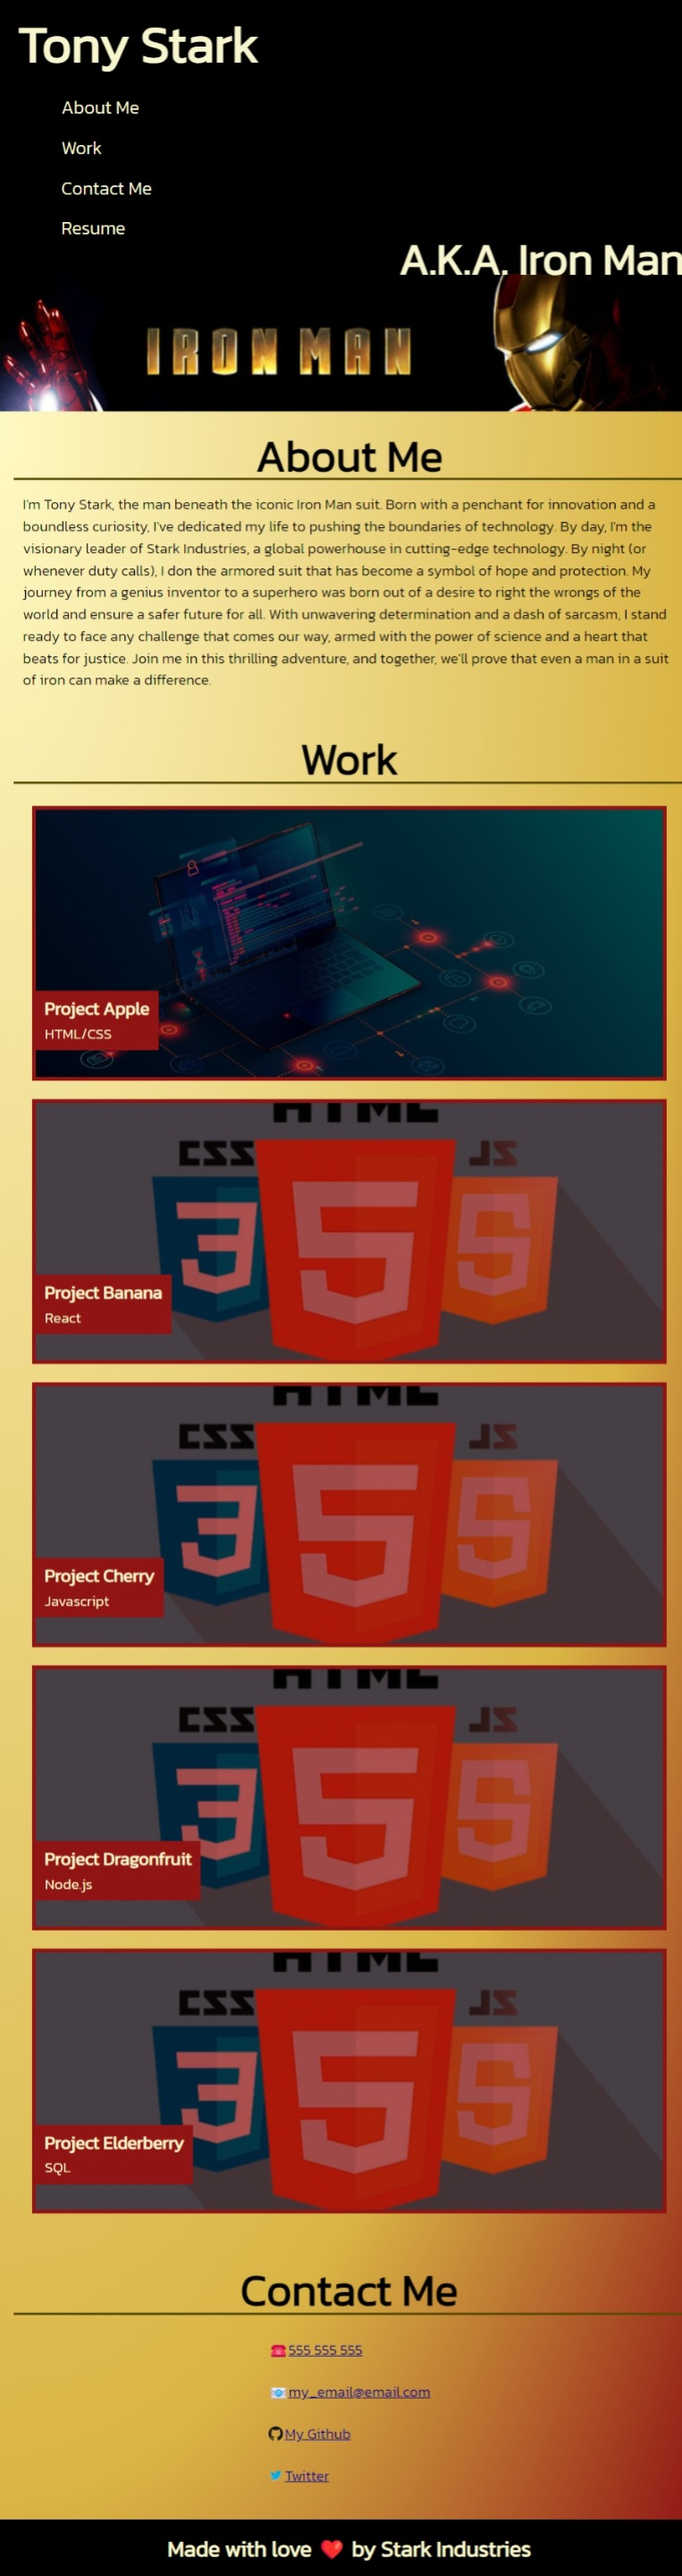
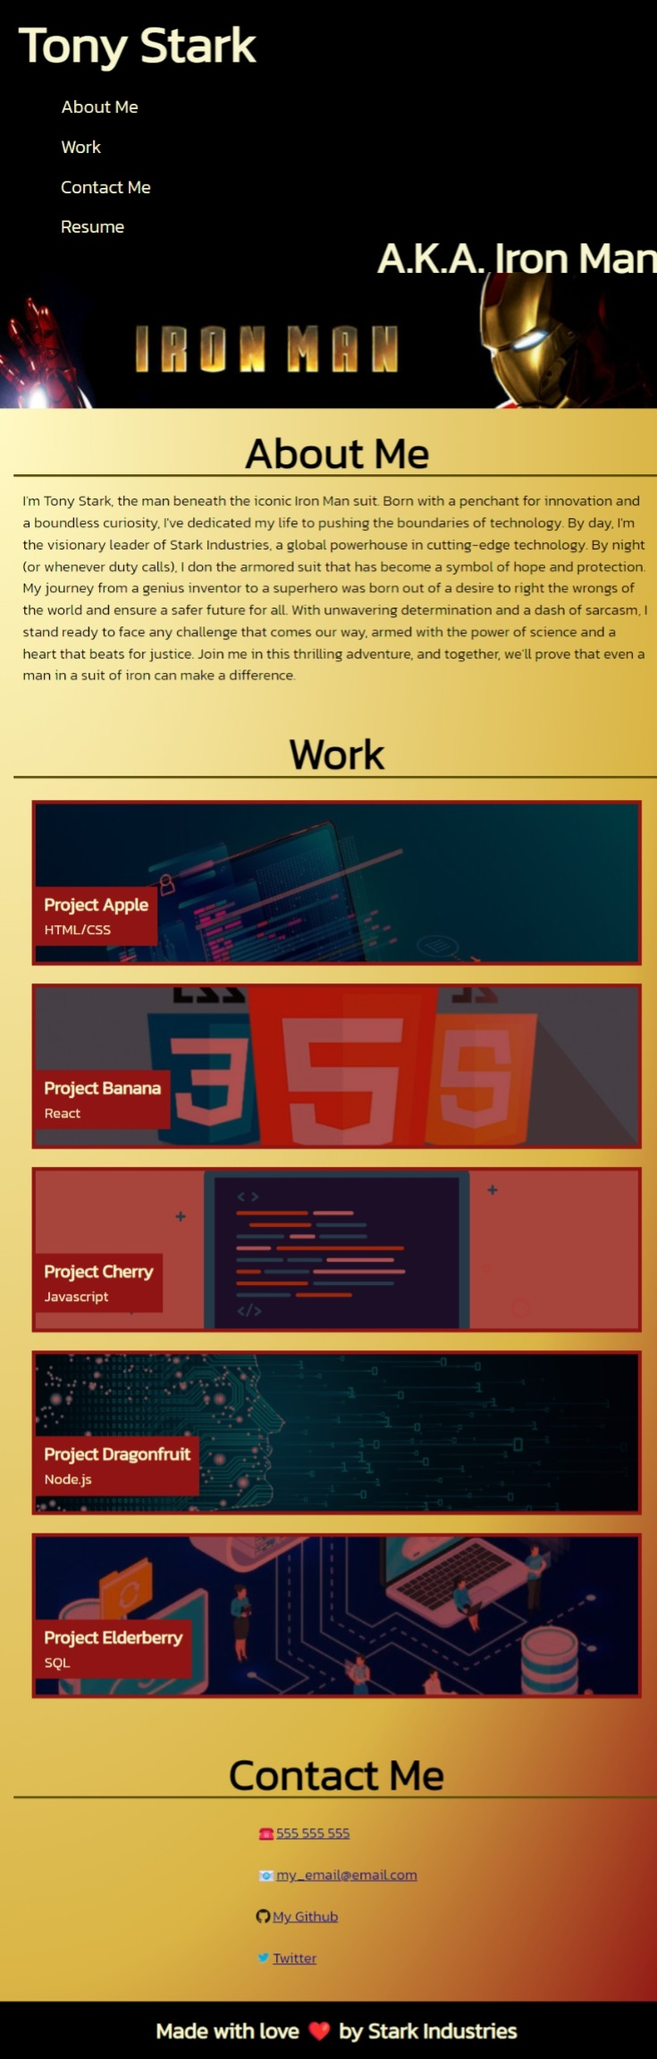
update placeholder images

diff --git a/assets/css/style.css b/assets/css/style.css
@@ -147,7 +147,6 @@ section {
 /*other smaller sized projects listed below*/
 #work-profile .small-projects {
     background-color: rgba(144, 20, 20, 0.744);
-    background-image: url("../images/other_project.jpg");
     background-position: center center;
     background-size: 100%;
     background-blend-mode: multiply;
@@ -160,6 +159,24 @@ section {
     flex-wrap: wrap;
     flex-grow: 1;
 }
+
+/*A list of individual images for each small project tile*/
+#work-profile .section-content >:nth-child(2){
+    background-image: url("../images/other_project.jpg");
+}
+
+#work-profile .section-content >:nth-child(3){
+    background-image: url("../images/other_project2.png");
+}
+
+#work-profile .section-content >:nth-child(4){
+    background-image: url("../images/other_project3.png");
+}
+
+#work-profile .section-content >:nth-child(5){
+    background-image: url("../images/other_project4.jpg");
+}
+
 
 /*Add hover effect over the individual project image*/
 #work-profile figure:hover {
